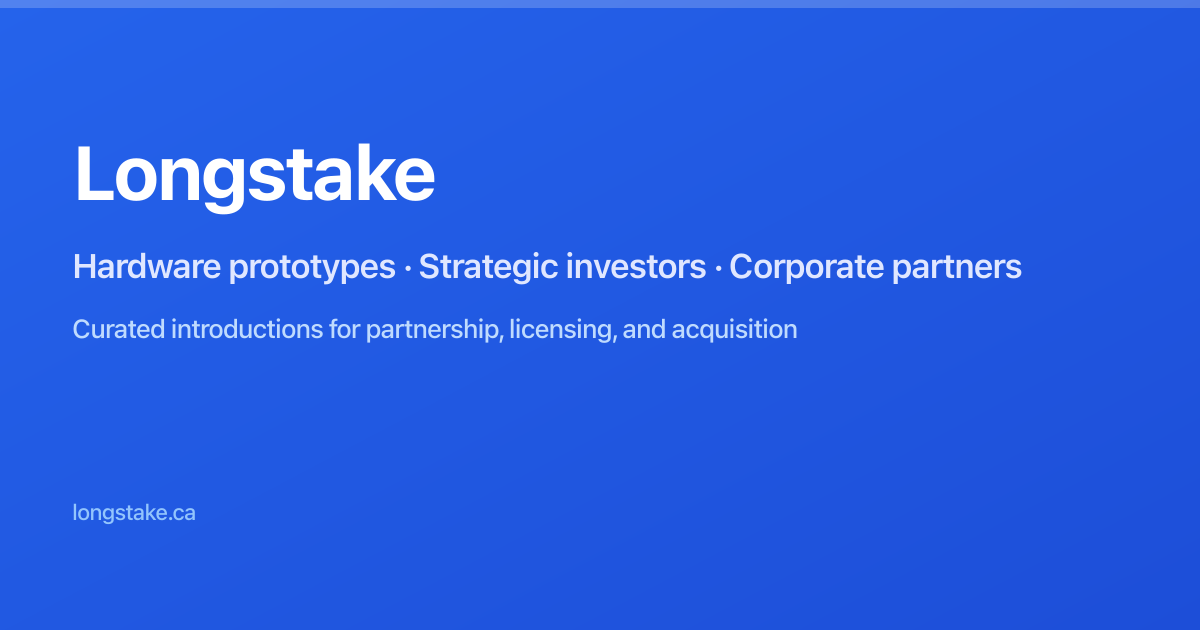
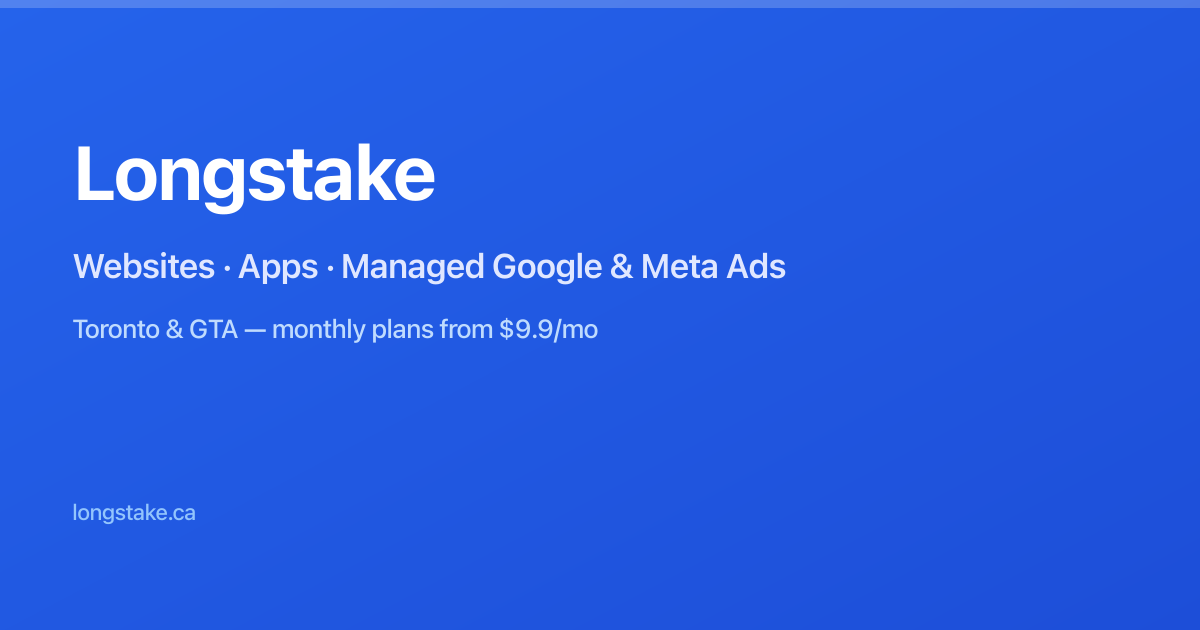
Expand SEO and AI search keywords for Toronto/GTA discoverability.
Broaden meta keywords, llms.txt query mapping, structured data, OG image copy, and sitemap dates so search engines and AI tools surface Longstake for local web design and ads queries.

Changed region(s): [[0.0617, 0.3921, 0.8633, 0.4524], [0.0617, 0.4825, 0.6783, 0.5429]]

diff --git a/src/components/SEO.jsx b/src/components/SEO.jsx
@@ -14,6 +14,7 @@ const SEO = () => {
         '@id': WEBSITE_ID,
         url: `${SITE_URL}/`,
         name: 'Longstake',
+        alternateName: ['Longstake Toronto', 'Longstake web design', 'longstake.ca'],
         description:
           'Longstake is a Toronto studio for websites, mobile and web apps, managed Google and Meta ads, Google review management, and Facebook/Instagram/LinkedIn setup—monthly plans from $9.9/mo.',
         publisher: { '@id': ORG_ID },
@@ -24,6 +25,7 @@ const SEO = () => {
         '@type': 'Organization',
         '@id': ORG_ID,
         name: 'Longstake',
+        alternateName: ['Longstake Toronto', 'Longstake web design', 'longstake.ca'],
         url: SITE_URL,
         logo: `${SITE_URL}/logo.svg`,
         image: `${SITE_URL}/og-image.png`,
@@ -35,12 +37,17 @@ const SEO = () => {
           'Mobile application development',
           'Web application development',
           'Google Ads management',
+          'PPC and pay-per-click advertising',
           'Meta Ads and Facebook advertising',
           'Instagram advertising and business setup',
           'Social media setup for business',
           'Google review management',
+          'Online reputation management',
           'Automated review responses',
           'Small business digital marketing',
+          'Toronto web design',
+          'GTA digital marketing',
+          'Affordable monthly website plans',
           'WhatsApp business chat integration',
         ],
         contactPoint: [
@@ -74,6 +81,7 @@ const SEO = () => {
         '@type': 'ProfessionalService',
         '@id': PROFESSIONAL_ID,
         name: 'Longstake',
+        alternateName: ['Longstake Toronto', 'Longstake web design', 'longstake.ca'],
         parentOrganization: { '@id': ORG_ID },
         description:
           'Toronto studio for websites, managed Google and Meta ads, Google review management, and social profile setup—one partner for site, ads, and reviews.',
@@ -103,9 +111,11 @@ const SEO = () => {
           'Website Redesign',
           'Mobile and Web Application Development',
           'Google Ads Management',
+          'PPC Management',
           'Meta Ads and Facebook Instagram Advertising',
           'Social Media Account Setup',
           'Google Review Management',
+          'Online Reputation Management',
         ],
         areaServed: [
           { '@type': 'City', name: 'Toronto' },

diff --git a/src/seo/siteMeta.js b/src/seo/siteMeta.js
@@ -4,12 +4,15 @@ export const SITE_URL = 'https://longstake.ca'
 /** Absolute URL for Open Graph / Twitter cards (must stay in sync with `public/og-image.png`). */
 export const OG_IMAGE_URL = `${SITE_URL}/og-image.png`
 
+/** Comma-separated keywords shared by Home meta (also mirrored in index.html). */
+export const HOME_SEARCH_KEYWORDS =
+  'web design Toronto, website design Toronto, website development Toronto, website redesign Toronto, web design company Toronto, web design agency Toronto, website designer Toronto, how much does a website cost Toronto, affordable website Toronto, small business website Toronto, mobile app development Toronto, web app development Toronto, app development company Toronto, google ads management Toronto, google ads agency Toronto, PPC management Toronto, facebook ads management Toronto, instagram ads management Toronto, meta ads agency Toronto, facebook ads Toronto, instagram marketing Toronto, social media setup Toronto, facebook business page setup, instagram business profile setup, linkedin business page setup, google review management Toronto, automated google review responses, online reputation management Toronto, digital marketing Toronto, managed ads Toronto, website and ads package Toronto, monthly website plans Toronto, GTA web design, Mississauga web design, Brampton web design, Markham web design, Vaughan web design, Scarborough web design, Longstake'
+
 const HOME_LANDING_META = {
   title: 'Toronto Web Design, Apps & Managed Google/Meta Ads from $9.9/mo | Longstake',
   description:
     'Longstake: Toronto websites and redesigns, mobile/web apps, managed Google and Meta ads, Google review management, and Facebook/Instagram/LinkedIn setup. Monthly plans from $9.9/mo. GTA and worldwide.',
-  keywords:
-    'web design Toronto, website development Toronto, website redesign Toronto, how much does a website cost Toronto, mobile app development Toronto, google ads management Toronto, facebook ads management Toronto, instagram ads management Toronto, meta ads agency Toronto, social media setup Toronto, google review management Toronto, managed ads Toronto, small business website Toronto, Longstake',
+  keywords: HOME_SEARCH_KEYWORDS,
 }
 
 export const DEFAULT_PAGE_META = HOME_LANDING_META
@@ -21,7 +24,7 @@ export const PAGE_META = {
     description:
       'Longstake pricing for Toronto: Starter $9.9/mo (website + reviews + social links), Growth $29.9/mo (site + one ad channel), Scale $39.9/mo (both Google & Meta), Pro $59.9/mo, App $79.9/mo. Free setup on Starter–Scale.',
     keywords:
-      'website pricing Toronto, how much does a website cost Toronto, managed Google Ads pricing Toronto, managed Meta Ads pricing Toronto, facebook instagram ads management cost Toronto, google review management pricing, monthly website plans Toronto, web app development cost Toronto, Longstake pricing',
+      'website pricing Toronto, how much does a website cost Toronto, cheap website Toronto, affordable website plans Toronto, managed Google Ads pricing Toronto, managed Meta Ads pricing Toronto, facebook ads management cost Toronto, instagram ads management Toronto, google review management pricing Toronto, monthly website plans Toronto, web design packages Toronto, website and ads bundle Toronto, mobile app development cost Toronto, web app development pricing Toronto, digital marketing packages Toronto, Longstake pricing',
   },
   careers: {
     title: 'Careers | Longstake',

diff --git a/src/pages/PricingPage.jsx b/src/pages/PricingPage.jsx
@@ -73,9 +73,13 @@ const PRICING_STRUCTURED_DATA = {
     {
       '@type': 'Service',
       name: 'Longstake — websites, managed ads, and app development',
-      serviceType: 'Digital Product Engineering and Growth Services',
+      serviceType: 'Web Design, App Development, Google Ads Management, Meta Ads Management, Review Management',
       provider: { '@type': 'Organization', name: 'Longstake', url: 'https://longstake.ca' },
-      areaServed: { '@type': 'Place', name: 'Worldwide' },
+      areaServed: [
+        { '@type': 'City', name: 'Toronto', containedInPlace: { '@type': 'AdministrativeArea', name: 'Ontario' } },
+        { '@type': 'Place', name: 'Greater Toronto Area' },
+        { '@type': 'Place', name: 'Worldwide' },
+      ],
       url: 'https://longstake.ca/pricing',
       hasOfferCatalog: {
         '@type': 'OfferCatalog',

diff --git a/index.html b/index.html
@@ -17,7 +17,7 @@
     <title>Toronto Web Design, Apps &amp; Managed Google/Meta Ads from $9.9/mo | Longstake</title>
     <meta name="title" content="Toronto Web Design, Apps &amp; Managed Google/Meta Ads from $9.9/mo | Longstake" />
     <meta name="description" content="Longstake: Toronto websites and redesigns, mobile/web apps, managed Google and Meta ads, Google review management, and Facebook/Instagram/LinkedIn setup. Monthly plans from $9.9/mo. GTA and worldwide." />
-    <meta name="keywords" content="web design Toronto, website development Toronto, website redesign Toronto, how much does a website cost Toronto, mobile app development Toronto, google ads management Toronto, facebook ads management Toronto, instagram ads management Toronto, meta ads agency Toronto, social media setup Toronto, google review management Toronto, managed ads Toronto, Longstake" />
+    <meta name="keywords" content="web design Toronto, website design Toronto, website development Toronto, website redesign Toronto, web design company Toronto, web design agency Toronto, how much does a website cost Toronto, affordable website Toronto, mobile app development Toronto, google ads management Toronto, facebook ads management Toronto, instagram ads management Toronto, meta ads agency Toronto, social media setup Toronto, google review management Toronto, digital marketing Toronto, managed ads Toronto, monthly website plans Toronto, GTA web design, Mississauga web design, Brampton web design, Longstake" />
     <meta name="referrer" content="strict-origin-when-cross-origin" />
     <meta name="author" content="Longstake" />
     <meta name="publisher" content="Longstake" />
@@ -41,7 +41,7 @@
     <meta property="og:image:width" content="1200" />
     <meta property="og:image:height" content="630" />
     <meta property="og:image:type" content="image/png" />
-    <meta property="og:image:alt" content="Longstake — digital product engineering and growth" />
+    <meta property="og:image:alt" content="Longstake — Toronto web design, apps, and managed Google/Meta ads" />
     <meta property="og:site_name" content="Longstake" />
     <meta property="og:locale" content="en_CA" />
     <meta property="og:locale:alternate" content="en_US" />
@@ -52,7 +52,7 @@
     <meta name="twitter:title" content="Toronto Web Design, Apps &amp; Managed Ads | Longstake" />
     <meta name="twitter:description" content="Websites, apps, managed Google/Meta ads, review management, and social setup in Toronto—from $9.9/mo." />
     <meta name="twitter:image" content="https://longstake.ca/og-image.png" />
-    <meta name="twitter:image:alt" content="Longstake — digital product engineering and growth" />
+    <meta name="twitter:image:alt" content="Longstake — Toronto web design, apps, and managed Google/Meta ads" />
     
     <!-- Canonical URL -->
     <link rel="canonical" href="https://longstake.ca/" />